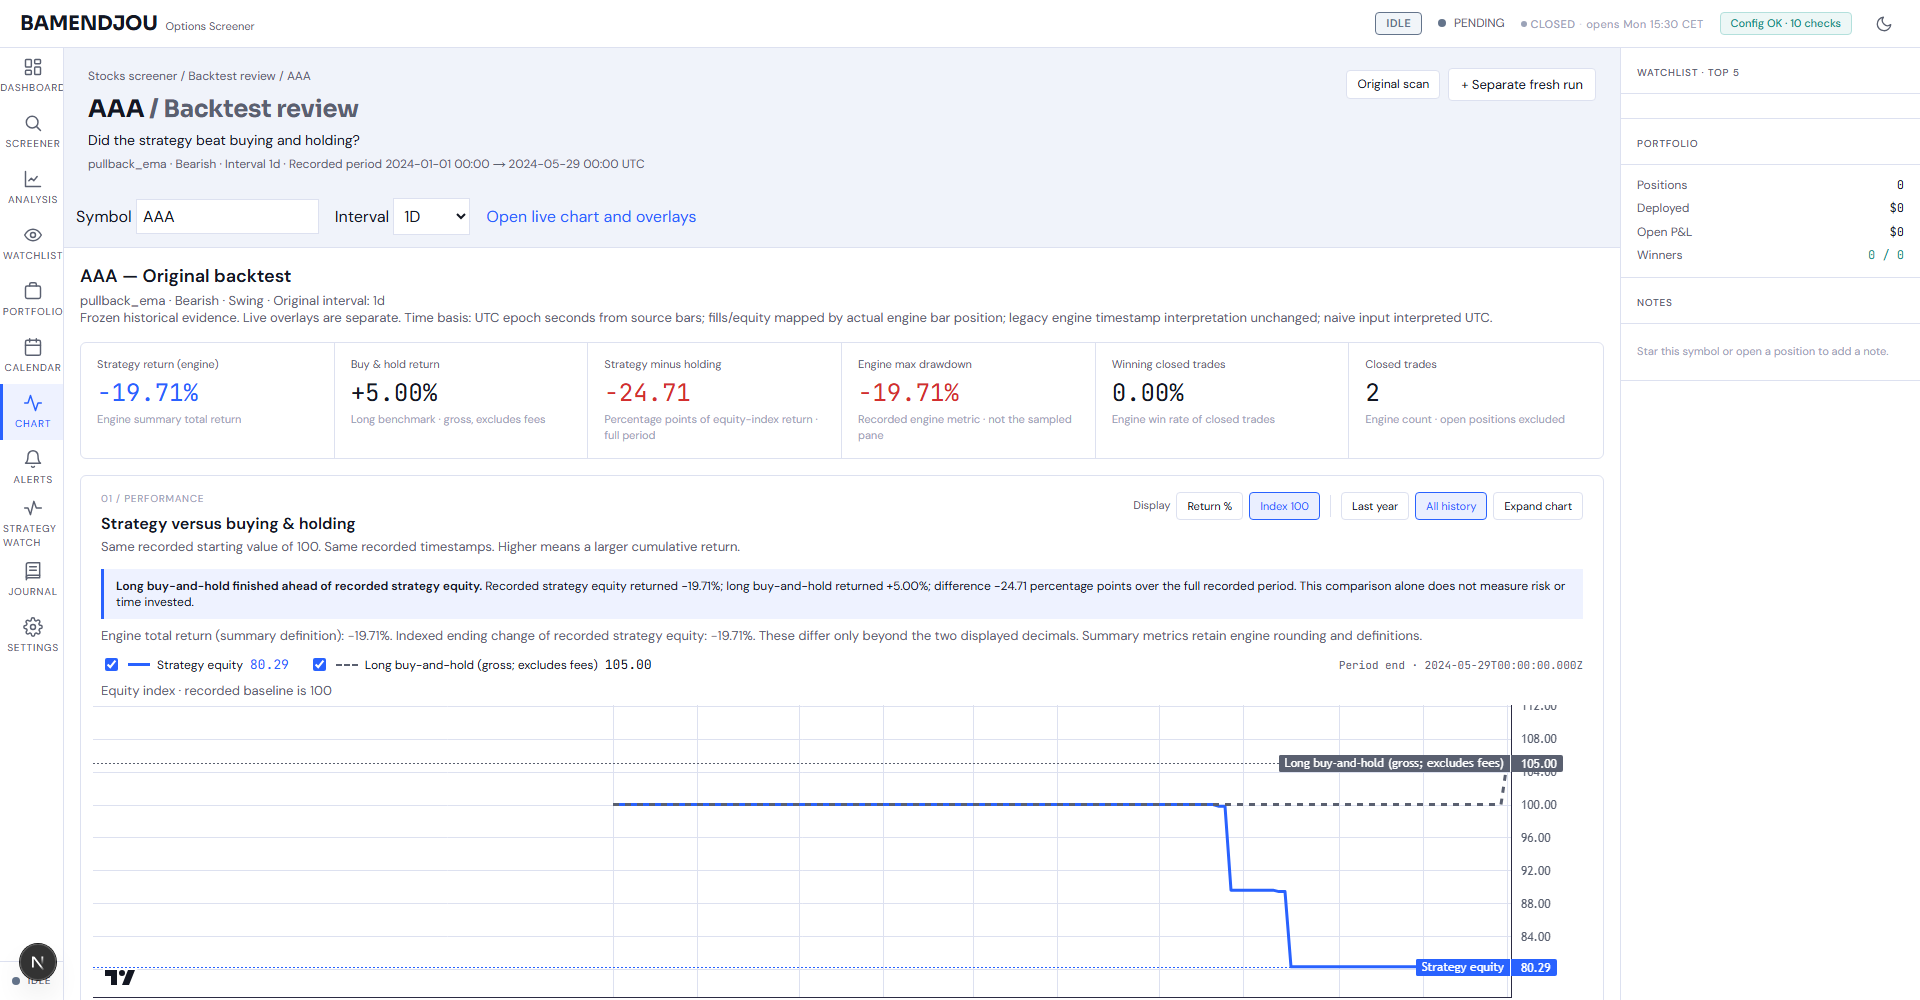
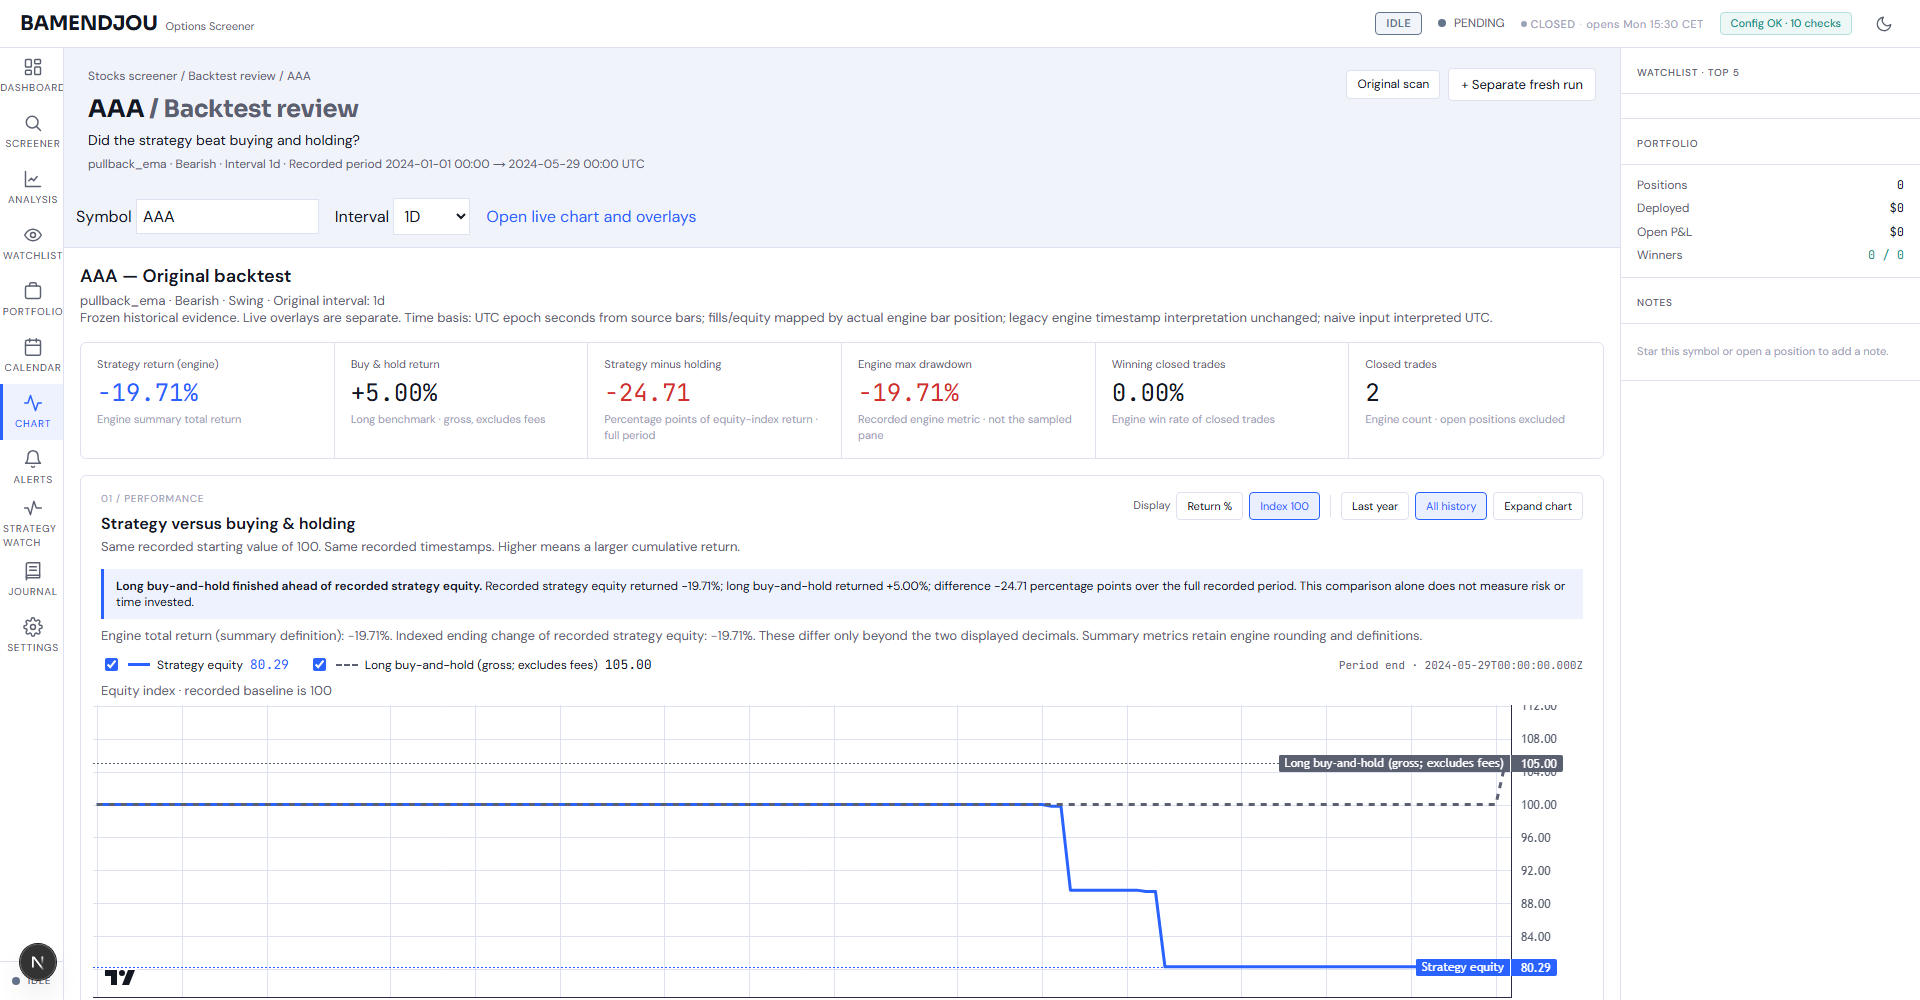
fix(backtest): refit chart panes to the chosen range after resize
When a chart container's width changes (including the first layout), the
panes kept their old bar spacing, so with All history pressed the left part
of a pane stayed blank until a range button was pressed again. The
ResizeObserver now applies the new width and then re-applies the current
display bounds (the selection window while a trade is inspected, otherwise
the active broad range) to every pane. A callback without a width change
re-fits nothing, so a manual pan/zoom is not overridden.

The two former KNOWN DEFECT Playwright tests now run as regular tests, a
Jest regression covers the resize refit, and the two evidence screenshots
that showed the blank area are replaced from the fixed build.

diff --git a/frontend/components/organisms/CandidateBacktestWorkspace/index.test.tsx b/frontend/components/organisms/CandidateBacktestWorkspace/index.test.tsx
@@ -453,6 +453,47 @@ describe('price styles and linked trade review', () => {
   expect(screen.getByRole('button', {name: 'Last year'})).toHaveAttribute('aria-pressed', 'true');
  });
 
+ it('refits every pane to the chosen range, or the selection window, after its container changes width, and only then', () => {
+  let resize: (() => void) | null = null;
+  const disconnect = jest.fn();
+  global.ResizeObserver = class {constructor(cb: () => void) {resize = cb;} observe() {} unobserve() {} disconnect() {disconnect();}} as any;
+  const {unmount} = render(<CandidateBacktestWorkspace artifact={review}/>);
+  const labels = [PRICE, PERFORMANCE, DRAWDOWN];
+  const layout = (width: number) => {
+   for (const chart of mockCharts) {chart.scale.setVisibleRange.mockClear(); chart.applyOptions.mockClear();}
+   for (const label of labels) Object.defineProperty(pane(label).container, 'clientWidth', {configurable: true, value: width});
+   act(() => resize!());
+  };
+  const expectRefit = (width: number, range: any) => {
+   expectRange(range);
+   for (const label of labels) {
+    const chart = pane(label);
+    expect(chart.applyOptions).toHaveBeenCalledWith({width});
+    // The new width is applied first, so the chart fits the chosen dates to the new width.
+    expect(chart.applyOptions.mock.invocationCallOrder.at(-1)).toBeLessThan(chart.scale.setVisibleRange.mock.invocationCallOrder.at(-1));
+   }
+  };
+  layout(1300);
+  expectRefit(1300, ALL);
+  layout(1880);
+  expectRefit(1880, ALL);
+  // A callback without a width change (e.g. Expand chart changes only the height) leaves a manual pan/zoom alone.
+  layout(1880);
+  for (const chart of mockCharts) expect(chart.scale.setVisibleRange).not.toHaveBeenCalled();
+  fireEvent.click(screen.getByRole('button', {name: 'Last year'}));
+  layout(1500);
+  expectRefit(1500, YEAR);
+  fireEvent.click(screen.getByRole('button', {name: 'Inspect trade t1'}));
+  layout(1700);
+  expectRefit(1700, {from: D(-15), to: D(27)});
+  fireEvent.click(screen.getByRole('button', {name: 'Clear selection'}));
+  layout(1300);
+  expectRefit(1300, YEAR);
+  expect(mockCharts).toHaveLength(3);
+  unmount();
+  expect(disconnect).toHaveBeenCalled();
+ });
+
  it('lets a broad range button override a trade zoom while keeping the selection', () => {
   render(<CandidateBacktestWorkspace artifact={review}/>);
   fireEvent.click(screen.getByRole('button', {name: 'Inspect trade t1'}));

diff --git a/frontend/components/organisms/CandidateBacktestWorkspace/index.tsx b/frontend/components/organisms/CandidateBacktestWorkspace/index.tsx
@@ -217,13 +217,24 @@ function Evidence({artifact}:{artifact:BacktestArtifact}) {
    if(fill?.source==='trade')inspectRef.current(fill.tradeId);
   };
   price.subscribeClick(click);
-  const containers=[priceRef.current,performanceRef.current,drawdownRef.current];
+  const sized:{chart:IChartApi;element:HTMLElement}[]=[{chart:price,element:priceRef.current},{chart:performance,element:performanceRef.current},...(drawdownChart&&drawdownRef.current?[{chart:drawdownChart,element:drawdownRef.current}]:[])];
+  // Unknown until the first layout, so the initial observation also fits the chosen dates.
+  const widths=new Map<HTMLElement,number>();
   const observer=new ResizeObserver(()=>{
-   if(priceRef.current)price.applyOptions({width:priceRef.current.clientWidth});
-   if(performanceRef.current)performance.applyOptions({width:performanceRef.current.clientWidth});
-   if(drawdownChart&&drawdownRef.current)drawdownChart.applyOptions({width:drawdownRef.current.clientWidth});
+   let changed=false;
+   for(const {chart,element} of sized){
+    const width=element.clientWidth;
+    if(widths.get(element)===width)continue;
+    widths.set(element,width);chart.applyOptions({width});changed=true;
+   }
+   // A wider pane keeps its bar spacing, leaving blank space; re-fit every pane to the chosen dates (the
+   // selection window or the broad range) after the new width. Only on a width change, so a height-only
+   // change or an unrelated re-render never overrides a manual pan or zoom.
+   if(!changed)return;
+   const {zoomBounds:chosen,range:current}=display.current;
+   if(chosen)applyBounds(chosen);else applyRange(current);
   });
-  for(const element of containers)if(element)observer.observe(element);
+  for(const {element} of sized)observer.observe(element);
   return()=>{view.current=null;unlink();observer.disconnect();price.unsubscribeClick(click);markers.detach();for(const chart of charts)chart.remove();setHover(null);setHoveredFill(null);};
  },[detail,curves,drawdown,fills]);
  // Display controls only adjust the existing charts: no rebuild, no run, no evidence change.

diff --git a/frontend/e2e/tests/candidate-backtest-presentation.spec.ts b/frontend/e2e/tests/candidate-backtest-presentation.spec.ts
@@ -489,16 +489,13 @@ test('/chart keeps the 1280px desktop gate: 1200px shows the overlay, not a usab
 });
 
 /*
- * KNOWN DEFECT, reported to the coordinator (T5) and deliberately not fixed while verifying:
- * after the chart containers widen (a 1920px first load, or a 1366 -> 1920 window resize) the panes
- * keep their old bar spacing, so "All history" (still pressed) leaves the left part of a pane blank
- * until a range button is clicked again (observed: the performance pane on a 1920px first load; the
- * price pane first, and the others, after a 1366 -> 1920 resize). Pixel equality with an explicit re-fit pins the
- * expected behaviour; test.fail() keeps the suite green until the defect is fixed, then flags it.
+ * Regression: after the chart containers widen (a 1920px first load, or a 1366 -> 1920 window resize)
+ * every pane must refit to the chosen range, so "All history" (still pressed) fills each pane. Before
+ * the fix the panes kept their old bar spacing and the left part of a pane stayed blank until a range
+ * button was clicked again. Pixel equality with an explicit re-fit pins the expected behaviour.
  */
 for (const start of [1920, 1366]) {
- test(`KNOWN DEFECT: All history fills every pane after the containers widen (start ${start}px, end 1920px)`, async ({page}) => {
-  test.fail(true, 'Panes keep their bar spacing on widening; All history is not re-applied (reported, not fixed in T5).');
+ test(`All history fills every pane after the containers widen (start ${start}px, end 1920px)`, async ({page}) => {
   const a = fixtures['Bearish-1d'];
   await openReport(page, a, 'dark', start);
   if (start !== 1920) await page.setViewportSize({width: 1920, height: 1000});

diff --git a/docs/superpowers/plans/backtest-review-visualisation/evidence/README.md b/docs/superpowers/plans/backtest-review-visualisation/evidence/README.md
@@ -6,7 +6,7 @@ Verification of the integrated T1–T4 build (`690b034b`, `1d168cb8`, `454dd82b`
 
 | Command (from `frontend/`) | Result |
 | --- | --- |
-| `BACKTEST_BROWSER_FIXTURES=<repo>/docs/superpowers/plans/backtest-review-visualisation/fixtures/recorded-engine.json npx playwright test -c <temporary config: baseURL http://localhost:3017, no webServer> e2e/tests/candidate-backtest-presentation.spec.ts e2e/tests/candidate-backtest.spec.ts` | 25 passed (23 ok + 2 expected failures for the known defect below), 3.7 min. The six matrix tests were re-run after adding the time-basis/evaluation/commission assertions: 6 passed. |
+| `BACKTEST_BROWSER_FIXTURES=<repo>/docs/superpowers/plans/backtest-review-visualisation/fixtures/recorded-engine.json npx playwright test -c <temporary config: baseURL http://localhost:3017, no webServer> e2e/tests/candidate-backtest-presentation.spec.ts e2e/tests/candidate-backtest.spec.ts` | 25 passed (23 ok + 2 expected failures for the defect below, since fixed), 3.7 min. The six matrix tests were re-run after adding the time-basis/evaluation/commission assertions: 6 passed. |
 | same, with `BACKTEST_EVIDENCE_DIR=<this folder>` | wrote the screenshots below |
 | `npx jest components/organisms/CandidateBacktestWorkspace components/organisms/CandidateChartWorkspace components/organisms/FreshBacktestControls components/molecules/BacktestTradeTable lib/__tests__/useOriginalBacktest` | 9/9 suites, 109/109 tests passed |
 | `npm run typecheck` | clean |
@@ -19,9 +19,24 @@ What the presentation spec checks (all expected numbers are read from the served
 
 Fixture coverage limit: the recorded-engine fixture holds Stocks `pullback_ema` artifacts only (daily and 15-minute, Bullish and Bearish, fresh, zero-trade). No Pre-Breakout or Fib original artifact fixture exists; those sources are verified only on their unavailable routes. Pagination/open-position/off-candle browser checks use a display-only derived copy of the Bullish-1d artifact, built inside the spec and labelled there; it is not engine output. Late-response isolation is covered by Jest only.
 
-## Known defect found (not fixed; reported to the coordinator)
+## Defect found during verification, since fixed
 
-After the chart containers widen — a first load at 1920px, or resizing 1366 → 1920 — the panes keep their previous bar spacing, so with *All history* still pressed the left part of a pane stays blank until a range button is pressed again (visible in `report-default-1920-light.png`). Reproduction: the two `KNOWN DEFECT` tests in `candidate-backtest-presentation.spec.ts` (marked `test.fail()`; they compare each pane before and after Last year → All history). Data and numbers are unaffected.
+After the chart containers widened — a first load at 1920px, or resizing 1366 → 1920 — the panes kept their previous bar spacing, so with *All history* still pressed the left part of a pane stayed blank until a range button was pressed again (the old `report-default-1920-light.png` and `index100-1920-light.png` showed the performance pane's left third empty). Data and numbers were unaffected.
+
+**Fixed** by the commit `fix(backtest): refit chart panes to the chosen range after resize` (the commit that carries this note): when a container's width changes (including the first layout), every pane is re-fitted to the current display bounds, the selection window while a trade is inspected or else the active broad range, after the new width is applied. A callback without a width change (e.g. Expand chart) re-fits nothing, so a manual pan/zoom is not overridden. No presentation math changed.
+
+Verification of the fix (2026-11-14, same host, dev server on port 3017, temporary Playwright config outside the repo):
+
+| Check | Result |
+| --- | --- |
+| The two former `KNOWN DEFECT` tests, now `All history fills every pane after the containers widen (start 1920px / 1366px, end 1920px)` with `test.fail()` removed, on the code before the fix | 2 failed red: `Indexed equity comparison already showed all history` (1920 start), `Historical candles already showed all history` (1366 start) |
+| Jest regression `refits every pane to the chosen range, or the selection window, after its container changes width, and only then` before the fix | failed red: no `setVisibleRange` call after the resize callback |
+| Both Playwright specs with the fixture, after the fix | 25/25 passed (no expected failures left), 1.7 min |
+| Targeted Jest (the five paths above) | 9/9 suites, 110/110 tests passed |
+| `npm run typecheck` | clean |
+| `npx jest --silent` (full) | 349/354 suites, 6503/6508 tests passed. The 5 failing suites are the known host baseline, green in CI: BarrierRaceCard, StockSendDialog.session and StockPositionCard.referenceFlow (en-DE locale), and step-7-trade-card `edited-fields-sync` / `contracts-sync` (5000 ms timeouts under full-suite load; re-run alone with `--testTimeout=30000`: 2/2 suites, 36/36 tests passed). None imports a changed file. |
+
+`report-default-1920-light.png` and `index100-1920-light.png` were replaced with screenshots from the fixed build; the other screenshots did not show the blank area and are unchanged.
 
 ## Screenshots
 
